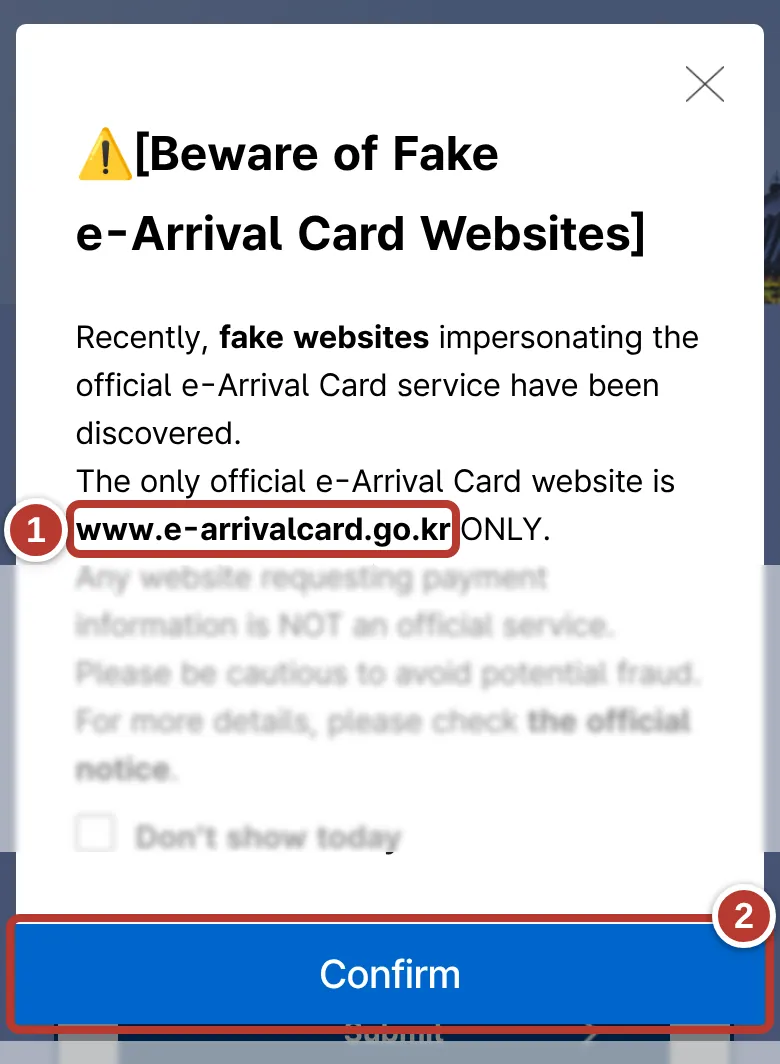
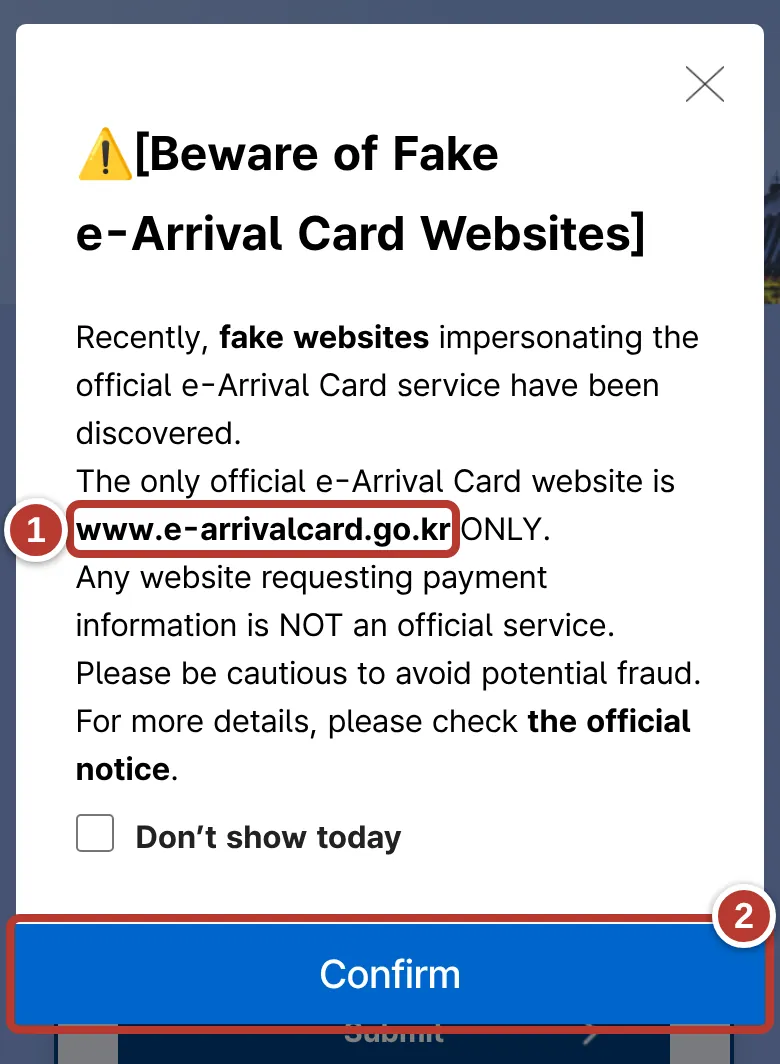
e-arrival-card en/ko: independent-review fixes (first screen, who-needs-it cards incl. Korean citizens, STEP bands, focused marks, FAQ wording, plain words, peak-end order); 'unknown' box labelled as our reading; unpublished
Claude-Session: https://claude.ai/code/session_01SuqWfEwhdH8js6VToC8bPd

diff --git a/tools/capture-eac/capture.js b/tools/capture-eac/capture.js
@@ -126,14 +126,12 @@ const box = (...r)=>{r=r.filter(Boolean); return [Math.min(...r.map(a=>a[1])), M
     const r=[];
     r.push(await mark(p, await V('input[name=ps_fmnm]').elementHandle(),1));
     r.push(await mark(p, await V('input[name=ps_gvnm]').elementHandle(),2));
-    r.push(await mark(p, await V('select.btd_year').evaluateHandle(e=>e.parentElement),3));
-    r.push(await mark(p, await V('.info_nat').elementHandle(),4));
-    r.push(await mark(p, await V('input[name=ps_no]').elementHandle(),5));
-    r.push(await mark(p, sexSel,6));
-    const exp = await p.evaluateHandle(()=>{ const ss=[...document.querySelectorAll('select')].filter(s=>s.getBoundingClientRect().height>0); const i=ss.findIndex(s=>/Male|남/.test(s.innerText)); return ss[i+1].parentElement;});
-    r.push(await mark(p, exp, 7));
+    r.push(await mark(p, await V('#fmnmChk1').evaluateHandle(e=>e.closest('.checkbox-area')||e.parentElement),3,{outR:true}));
+    const usfk = await p.evaluateHandle(()=>window.__small('USFK'));
+    r.push(await mark(p, usfk, 4, {outR:true}));
+    r.push(await mark(p, await V('input[name=ps_no]').elementHandle(),null));
     const ub = await V('button.btnOcrScan').boundingBox(); const sy=await p.evaluate(()=>scrollY);
-    const h5=await p.evaluate(()=>document.querySelector('h5.infoBox').getBoundingClientRect().top+scrollY); await clipShot(p,'shot-6',h5-14,r[6][3]+16);
+    const h5=await p.evaluate(()=>document.querySelector('h5.infoBox').getBoundingClientRect().top+scrollY); await clipShot(p,'shot-6',r[0][1]-50,r[4][3]+20);
   }
   // arrival/departure
   await V('input[name=ent_prr_ymd]').evaluate(e=>{e.removeAttribute('readonly'); e.value='2026-11-28'; e.dispatchEvent(new Event('change',{bubbles:true}));});
@@ -199,10 +197,10 @@ const box = (...r)=>{r=r.filter(Boolean); return [Math.min(...r.map(a=>a[1])), M
     await p.setViewportSize({width:390,height:1200}); await p.waitForTimeout(300); const bb = await btn.boundingBox(); await btn.click({position:{x:(loc==='EN'? bb.width*0.75 : bb.width*0.25), y:bb.height/2}});
     await p.waitForTimeout(1500);
     await V('#keywordAddr').fill('08013'); await V('#btnSearchAddr').click(); await p.waitForTimeout(2500); await L.ready(p).catch(()=>{});
-    const k = await markSel(p,'#keywordAddr',1,{fixed:true},'div');
+    const k = await markSel(p,'#keywordAddr',8,{fixed:true},'div');
     const row = await p.evaluateHandle(()=>{const k=document.querySelector('#keywordAddr'); const kb=k.getBoundingClientRect().bottom; return [...document.querySelectorAll('li,tr,a,div')].filter(x=>{const r=x.getBoundingClientRect(); return r.height>20&&r.height<90&&r.top>kb+20&&/08013/.test(x.innerText)&&x.offsetParent;}).sort((a,b)=>a.getBoundingClientRect().top-b.getBoundingClientRect().top || b.getBoundingClientRect().width-a.getBoundingClientRect().width)[0]||null;});
-    let r2=null; if (await row.evaluate(e=>!!e)) r2 = await mark(p,row,2,{fixed:true}); else console.log('no result row');
-    const t2 = await markSel(p,'#twoTab',3,{fixed:true});
+    let r2=null; if (await row.evaluate(e=>!!e)) r2 = await mark(p,row,9,{fixed:true}); else console.log('no result row');
+    const t2 = await markSel(p,'#twoTab',10,{fixed:true});
     const top = await p.evaluate(()=>{let c=document.querySelector('#twoTab'); while(c.parentElement&&c.getBoundingClientRect().height<350) c=c.parentElement; return c.getBoundingClientRect().top;});
     const bot = r2 ? r2[3]+60 : 900;
     await clipShot(p,'shot-9',top-14,Math.min(bot,1200),true);

diff --git a/tools/capture-eac/tips.js b/tools/capture-eac/tips.js
@@ -1,0 +1,18 @@
+const L=require('./lib.js');
+(async()=>{
+  for (const loc of ['EN','KO']) {
+  const {b,p}=await L.open(loc);
+  await L.toForm(p,loc); await L.fixCss(p); await L.closePop(p);
+  const n = await p.locator('button.btnToolTip').count();
+  const out=[];
+  for (let i=0;i<n;i++){ const bt=p.locator('button.btnToolTip').nth(i); if(!(await bt.isVisible())) continue;
+    const before = await p.evaluate(()=>document.body.innerText);
+    await bt.click().catch(()=>{}); await p.waitForTimeout(500);
+    const after = await p.evaluate(()=>[...document.querySelectorAll('div,p,ul')].filter(e=>{const s=getComputedStyle(e); const r=e.getBoundingClientRect(); return r.height>0 && (s.position==='absolute'||s.position==='fixed') && e.innerText.trim().length>10 && e.innerText.length<1500;}).map(e=>e.innerText.trim()).join('\n---\n'));
+    out.push('## tip '+i+'\n'+after);
+    await p.keyboard.press('Escape'); await bt.click().catch(()=>{}); await p.waitForTimeout(300);
+  }
+  require('fs').writeFileSync('raw/tips-'+loc+'.txt', out.join('\n\n'));
+  await b.close();
+  }
+})();

diff --git a/tools/capture-eac/convert2.py b/tools/capture-eac/convert2.py
@@ -2,7 +2,7 @@ import json, os
 from PIL import Image, ImageDraw, ImageFilter
 R='/home/user/gibyeol-board/static/fig'
 UP,DOWN,PAD=72,16,36
-OPT={0:{'crop':False,'keep_top':True},1:{'keep_top':True},11:{'crop':False,'keep_top':True},12:{'crop':False,'keep_top':True}}
+OPT={1:{'keep_top':True,'noveil':True},5:{'noveil':True},6:{'keep_top':True},8:{'noveil':True},9:{'noveil':True,'crop':False},11:{'crop':False,'keep_top':True},12:{'crop':False,'keep_top':True}}
 def edit(lang,n):
     o=OPT.get(n,{})
     im=Image.open(f'raw/{lang}-shot-{n}.png').convert('RGB')
@@ -22,14 +22,14 @@ def edit(lang,n):
     mask=Image.new('L',im.size,0); d=ImageDraw.Draw(mask)
     if o.get('keep_top') and merged: merged[0][0]=0
     for y0,y1 in merged: d.rectangle((0,y0,im.width,y1),fill=255)
-    out=Image.composite(im,soft,mask)
+    out=im if o.get('noveil') else Image.composite(im,soft,mask)
     if merged and o.get('crop',True):  # crop to what matters
         top=max(0,merged[0][0]-PAD); bot=min(im.height,merged[-1][1]+PAD)
         out=out.crop((0,top,im.width,bot))
     return out
 for lang in ('en','ko'):
     os.makedirs(f'{R}/{lang}',exist_ok=True)
-    shots={n:edit(lang,n) for n in (0,1,2,3,5,6,7,8,9,10,11,12)}
+    shots={n:edit(lang,n) for n in (1,2,5,6,7,8,9,10,11,12)}
     a,b=edit(lang,'4a'),edit(lang,'4b'); gap=44
     m=Image.new('RGB',(a.width,a.height+gap+b.height),'white'); m.paste(a,(0,0)); m.paste(b,(0,a.height+gap))
     d=ImageDraw.Draw(m); y=a.height+gap//2

diff --git a/content/ko/e-arrival-card.md b/content/ko/e-arrival-card.md
@@ -1,30 +1,25 @@
 ---
 title: 전자입국신고서(e-Arrival Card), 화면 따라 작성하기
 description: 한국에 올 때 내는 무료 전자입국신고서. 제출 시기, 유료 가짜 사이트, 숙소 여러 곳·귀국일 미정·아이 동반·환승 작성법.
-lede: 무료, 휴대폰으로 10분쯤, 도착 3일 전부터. 내 두면 입국심사대에서 심사관이 이미 내 정보를 보고 있어요.
+lede: 무료, 휴대폰으로 10분쯤, 도착 3일 전부터. 미리 내 두면 입국심사대에서 심사관이 이미 내 정보를 보고 있어요.
 section: essentials
 updated: 2026-11-26
 ---
 <div class="eac-cta"><a class="eac-btn" href="#누가-내야-하나요"><i class="ic ic-circle-help" aria-hidden="true"></i>내야 하나요?</a><a class="eac-btn go" href="https://www.e-arrivalcard.go.kr" rel="noopener" target="_blank">작성하러 가기 <i class="ic ic-arrow-right" aria-hidden="true"></i></a></div>
 
-{{fig:e-arrival-card-shot-0|진짜 공식 사이트예요. 주소 끝이 **go.kr**이고 "수수료 없이"라고 써 있어요. 화면: e-arrivalcard.go.kr(법무부), 2026년 11월 26일 캡처}}
-
 <ul class="eac-facts"><li><i class="ic ic-wallet" aria-hidden="true"></i>무료</li><li><i class="ic ic-clock" aria-hidden="true"></i>10분쯤</li><li><i class="ic ic-calendar-days" aria-hidden="true"></i>도착 3일 전부터</li><li><i class="ic ic-smartphone" aria-hidden="true"></i>휴대폰·컴퓨터, 앱 없음</li></ul>
+
+{{fig:e-arrival-card-shot-1|진짜 사이트는 먼저 이렇게 경고해요. ① 공식 사이트는 www.e-arrivalcard.go.kr 하나뿐이고, 결제정보를 묻는 곳은 공식이 아니에요. ② 확인을 누르면 닫혀요. 화면: e-arrivalcard.go.kr(법무부), 2026년 11월 26일 캡처}}
+
+<ul class="eac-facts eac-wide"><li><i class="ic ic-circle-check" aria-hidden="true"></i>깜빡했어도 도착 후 입국심사대 전까지 낼 수 있어요.</li><li><i class="ic ic-pencil" aria-hidden="true"></i>화면은 7개 언어, 입력은 영어나 한국어만 돼요.</li></ul>
 
 ## 누가 내야 하나요?
 
-<ul class="eac-who"><li class="yes"><i class="ic ic-user-check" aria-hidden="true"></i><span><b>내야 해요: K-ETA 없이 짧게 방문</b>일본·대만·미국 등 K-ETA 면제국 여권이면 대부분 여기예요. 도착 3일 전부터 공식 사이트에서 내요.</span></li><li class="no"><i class="ic ic-user-x" aria-hidden="true"></i><span><b>안 내요: 유효한 K-ETA가 있음</b><a href="https://www.k-eta.go.kr" rel="noopener" target="_blank">k-eta.go.kr</a>에서 입국 목적과 체류지만 현행화해요.</span></li><li class="no"><i class="ic ic-user-x" aria-hidden="true"></i><span><b>안 내요: 한국에 사는 외국인</b>유효한 외국인등록증(영주증·거소신고증 포함)이 있으면 할 일 없어요.</span></li><li class="fam"><i class="ic ic-users" aria-hidden="true"></i><span><b>가족·일행: 어른 한 명이 대표로</b>휴대폰으로 한 번에 9명까지. 만 14세 미만은 혼자 낼 수 없어요.</span></li></ul>
+<ul class="eac-who"><li class="no"><i class="ic ic-user-x" aria-hidden="true"></i><span><b>안 내요: 대한민국 국민</b>복수국적자도 한국 여권으로 들어오면 안 내요.</span></li><li class="yes"><i class="ic ic-user-check" aria-hidden="true"></i><span><b>내요: K-ETA 없이 오는 외국 여권</b>일본·대만·미국 등 K-ETA 면제국(22개 국가·지역, 2027년 말까지) 여권이면 대부분 여기예요. 입국심사 때 내는 입국신고서를 온라인으로 내는 거예요.</span></li><li class="no"><i class="ic ic-user-x" aria-hidden="true"></i><span><b>안 내요: 유효한 K-ETA가 있음</b>공식 FAQ 기준 제출 대상이 아니에요. <a href="https://www.k-eta.go.kr" rel="noopener" target="_blank">k-eta.go.kr</a>에서 입국 목적과 묵는 곳만 바꿔요.</span></li><li class="no"><i class="ic ic-user-x" aria-hidden="true"></i><span><b>안 내요: 한국에 사는 등록외국인</b>유효한 외국인등록증(영주증·거소신고증 포함)이 있으면 할 일 없어요.</span></li><li class="fam"><i class="ic ic-users" aria-hidden="true"></i><span><b>가족·일행: 한 사람이 대표로</b>휴대폰으로 한 번에 9명까지. 만 14세 미만은 혼자 낼 수 없어요.</span></li></ul>
 
-<details class="more"><summary><i class="ic ic-info" aria-hidden="true"></i>자세히: 안 내도 되는 사람과 이유</summary>
+<details class="more"><summary><i class="ic ic-info" aria-hidden="true"></i>자세히: 전체 판단 흐름, 이 페이지에서 뺀 것</summary>
 
 {{fig:e-arrival-card-1|전자입국신고서가 필요한지, 위에서부터 따라가 보세요}}
-
-| 상황 | 할 일 | 이유 |
-|---|---|---|
-| 일본·대만·미국 등 K-ETA 면제국 여권으로 단기 방문, K-ETA 없음 | 도착 전 3일 안에 [e-arrivalcard.go.kr](https://www.e-arrivalcard.go.kr)에서 제출 | 입국심사 때 내야 하는 입국신고서를 온라인으로 내는 것 |
-| 유효한 K-ETA가 있음 | 신고서는 안 내도 돼요. [k-eta.go.kr](https://www.k-eta.go.kr)에서 입국 목적과 체류지를 현행화 | 공식 FAQ: 유효한 K-ETA 소지자는 제출 대상이 아니에요 |
-| 유효한 외국인등록증(영주증·거소신고증 포함)이 있음 | 할 일 없음 | 등록외국인은 제출 대상이 아니에요 |
-| 가족·일행과 함께 | 한 사람이 대표로 입력, 휴대폰은 한 번에 9명까지 | 만 14세 미만은 혼자 신청할 수 없어요 |
 
 이 페이지가 필요 없는 사람: 대한민국 국민(복수국적자는 한국 여권으로 입국), 등록외국인, 유효한 K-ETA 소지자, 단체사증 소지자, 24시간 안에 환승하며 환승 구역을 벗어나지 않는 사람.
 
@@ -36,134 +31,89 @@ updated: 2026-11-26
 
 미리 옆에 두세요:
 
-<ul class="eac-facts eac-need"><li><i class="ic ic-id-card" aria-hidden="true"></i>여권</li><li><i class="ic ic-plane" aria-hidden="true"></i>항공편명</li><li><i class="ic ic-hotel" aria-hidden="true"></i>숙소 영문 주소</li><li><i class="ic ic-mail" aria-hidden="true"></i>이메일</li></ul>
+<ul class="eac-facts eac-need"><li><i class="ic ic-id-card" aria-hidden="true"></i>여권</li><li><i class="ic ic-plane" aria-hidden="true"></i>항공편명</li><li><i class="ic ic-hotel" aria-hidden="true"></i>숙소 영문 주소(예약 확인 메일)와 전화번호</li><li><i class="ic ic-mail" aria-hidden="true"></i>이메일</li></ul>
 
 사진 속 값(HONG GILDONG, 여권번호 M00000000)은 지어낸 예시예요. 본인 정보를 넣으세요.
 
-<h3 class="eac-step"><span class="n">1</span><i class="ic ic-shield-check" aria-hidden="true"></i>진짜 사이트 열기</h3>
+<h3 class="eac-step"><span class="st">STEP 1</span><i class="ic ic-shield-check" aria-hidden="true"></i>진짜 사이트 열기</h3>
 
-{{fig:e-arrival-card-shot-1|공식 사이트가 처음에 띄우는 경고창. 화면: e-arrivalcard.go.kr(법무부), 2026년 11월 26일 캡처}}
-
-1. 주소가 **e-arrivalcard.go.kr**인지 확인. 검색 말고 직접 입력.
-2. **확인**을 눌러 창을 닫아요.
+**e-arrivalcard.go.kr**을 직접 입력하세요. 검색 광고는 누르지 마세요. 경고창(이 페이지 첫 사진)에서 **확인**을 눌러요.
 
 <aside class="note eac-warn"><i class="ic ic-triangle-alert" aria-hidden="true"></i><span>가짜 사이트는 돈을 받아요. 진짜는 무료예요. 카드 번호를 물으면 바로 닫으세요.</span></aside>
 
-<h3 class="eac-step"><span class="n">2</span><i class="ic ic-arrow-right" aria-hidden="true"></i>신고하기 누르기</h3>
+<h3 class="eac-step"><span class="st">STEP 2</span><i class="ic ic-arrow-right" aria-hidden="true"></i>신고하기 누르기</h3>
 
 {{fig:e-arrival-card-shot-2|첫 화면. 화면: e-arrivalcard.go.kr(법무부), 2026년 11월 26일 캡처}}
 
-1. 정부 공식 사이트라는 표시예요.
-2. 오늘 낼 수 있는 입국일. 도착일이 없으면 기다려요.
+1. 정부 사이트 표시줄. 가짜도 따라 할 수 있으니 주소만 믿으세요.
+2. 오늘 낼 수 있는 입국일. 도착일이 아직 없으면 기다려요.
 3. "전자입국신고 · 개인 신고"(1-9명)의 **신고하기**.
 
-<h3 class="eac-step"><span class="n">3</span><i class="ic ic-mail" aria-hidden="true"></i>동의하고 이메일 넣기</h3>
+<h3 class="eac-step"><span class="st">STEP 3</span><i class="ic ic-mail" aria-hidden="true"></i>동의하고 이메일 넣기</h3>
 
 {{fig:e-arrival-card-shot-4|약관 동의와 이메일(긴 약관 글은 잘라 냄). 화면: e-arrivalcard.go.kr(법무부), 2026년 11월 26일 캡처}}
 
-1. **전체동의** 체크.
-2. 이메일.
-3. 같은 이메일 한 번 더.
-4. **확인**.
+체크하고, 이메일을 두 번 넣고, **확인**. 대표로 작성하는 사람은 만 14세 이상이어야 해요.
 
-<h3 class="eac-step"><span class="n">4</span><i class="ic ic-id-card" aria-hidden="true"></i>여권 스캔</h3>
+<h3 class="eac-step"><span class="st">STEP 4</span><i class="ic ic-id-card" aria-hidden="true"></i>여권 스캔</h3>
 
-{{fig:e-arrival-card-shot-5|여권 인적사항면 스캔. 화면: e-arrivalcard.go.kr(법무부), 2026년 11월 26일 캡처}}
+{{fig:e-arrival-card-shot-5|여권 스캔. 사이트의 안내 그림 그대로. 화면: e-arrivalcard.go.kr(법무부), 2026년 11월 26일 캡처}}
 
-1. 여권 사진면을 촬영.
+1. 여권 사진 있는 면을 촬영.
 2. 또는 찍어 둔 사진을 올려요.
 3. 인식이 안 되면 닫고 직접 입력.
 
-<h3 class="eac-step"><span class="n">5</span><i class="ic ic-pencil" aria-hidden="true"></i>여권 정보 확인</h3>
+<h3 class="eac-step"><span class="st">STEP 5</span><i class="ic ic-pencil" aria-hidden="true"></i>여권 정보 확인</h3>
 
-{{fig:e-arrival-card-shot-6|기본정보, 예시 값으로 채운 화면. 화면: e-arrivalcard.go.kr(법무부), 2026년 11월 26일 캡처}}
+{{fig:e-arrival-card-shot-6|헷갈리기 쉬운 칸, 예시 값. 화면: e-arrivalcard.go.kr(법무부), 2026년 11월 26일 캡처}}
 
-1. 성, 여권과 똑같이.
-2. 이름, 여권과 똑같이.
-3. 생년월일.
-4. 국가.
-5. 여권번호.
-6. 성별.
-7. 여권 만료일.
+1. 성 = 여권의 성(Surname).
+2. 이름 = 여권의 이름(Given name), 중간 이름까지.
+3. 'unknown' 칸: 여권에 성이나 이름이 정말 없을 때만 건드리세요(화면을 보고 우리가 판단한 것으로, 공식 FAQ에는 설명이 없어요).
+4. "For USFK – DoD ID number"는 주한미군용이에요. 다른 사람은 여권번호를 넣어요.
 
-<aside class="note eac-warn"><i class="ic ic-triangle-alert" aria-hidden="true"></i><span>여권과 한 글자씩 맞춰 보세요. 다르면 입국심사가 늦어질 수 있다고 사이트가 안내해요.</span></aside>
+여권 생년월일이 XX로 돼 있으면 00을 고르라고 사이트 도움말이 안내해요. 여권 만료일은 입국 예정일 이후여야 해요.
 
-<h3 class="eac-step"><span class="n">6</span><i class="ic ic-plane" aria-hidden="true"></i>항공편</h3>
+<aside class="note eac-warn"><i class="ic ic-triangle-alert" aria-hidden="true"></i><span>여권과 한 글자씩 맞춰 보세요. 공식 FAQ는 틀린 정보가 입국심사 지연이나 입국 불허로 이어질 수 있다고 안내해요.</span></aside>
+
+<h3 class="eac-step"><span class="st">STEP 6</span><i class="ic ic-plane" aria-hidden="true"></i>항공편</h3>
 
 {{fig:e-arrival-card-shot-7|입국·출국 정보. 화면: e-arrivalcard.go.kr(법무부), 2026년 11월 26일 캡처}}
 
-1. 비행기로 오면 **AIR**.
-2. 입국 예정일.
-3. 항공사.
-4. 항공편명.
-5. 출국 예정일. 필수예요.
-6. 출국 항공편명. 비워 둬도 돼요.
+출국 예정일은 필수. 출국 항공편명(6)은 비워 둬도 돼요. 귀국일이 미정이면 아래 '더 자세히'를 보세요.
 
-<h3 class="eac-step"><span class="n">7</span><i class="ic ic-hotel" aria-hidden="true"></i>입국 목적과 숙소</h3>
+<h3 class="eac-step"><span class="st">STEP 7</span><i class="ic ic-hotel" aria-hidden="true"></i>입국 목적과 묵는 곳</h3>
 
-{{fig:e-arrival-card-shot-8|입국목적, 체류지, 직업. 화면: e-arrivalcard.go.kr(법무부), 2026년 11월 26일 캡처}}
+{{fig:e-arrival-card-shot-8|입국목적, 묵는 곳, 직업. 화면: e-arrivalcard.go.kr(법무부), 2026년 11월 26일 캡처}}
 
 1. 입국목적, 예: **관광(개별)**.
 2. 비자번호 칸: 비자가 있을 때만. 없으면 건너뛰어요.
 3. **숙박시설**, 거주, 당일환승 중 하나.
-4. **KOR/ENG**를 눌러 숙소 주소를 찾아요.
+4. **KOR** 또는 **ENG**를 눌러 주소를 찾아요(사진 8~10).
 5. 숙소 이름, 호수 등.
-6. 한국 내 연락처. 화면에서 입력을 요구해요.
+6. 연락처: 묵는 곳의 전화번호. 사이트 도움말이 "체류하게 될 곳의 주소와 연락처"를 적으라고 해요.
 7. 직업.
 
 {{fig:e-arrival-card-shot-9|주소 조회. 사이트에 나온 예시(우편번호 08013)로 찾아 본 화면. 화면: e-arrivalcard.go.kr(법무부), 2026년 11월 26일 캡처}}
 
-1. 도로명이나 우편번호 5자리를 넣어요.
-2. 목록에서 주소를 눌러요.
-3. 안 나오면 **직접입력**.
+<ol class="steps" style="counter-reset:st 7"><li>도로명이나 우편번호 5자리를 넣어요.</li><li>목록에서 주소를 눌러요.</li><li>안 나오면 <b>직접입력</b>.</li></ol>
 
-<h3 class="eac-step"><span class="n">8</span><i class="ic ic-circle-check" aria-hidden="true"></i>제출하고 PDF 저장</h3>
+<h3 class="eac-step"><span class="st">STEP 8</span><i class="ic ic-circle-check" aria-hidden="true"></i>제출하고 PDF 저장</h3>
 
 {{fig:e-arrival-card-shot-10|양식의 마지막 부분. 여기서 멈췄고 제출하지 않았어요. 화면: e-arrivalcard.go.kr(법무부), 2026년 11월 26일 캡처}}
 
 1. 이메일 확인.
-2. **제출**. 이어서 인증번호를 넣는 단계가 나와요.
+2. **제출**. 누르기 전에 여권과 다른 곳이 없는지 확인해요.
 
-<aside class="note eac-done"><i class="ic ic-file-down" aria-hidden="true"></i><span>끝! 발급번호가 담긴 PDF를 휴대폰에 저장하세요. 심사대에서 보여 줄 의무는 없어요.</span></aside>
+공식 사이트는 2026년 5월 6일부터 제출할 때 인증번호를 입력하는 절차를 도입한다고 공지했어요. 우리는 제출하지 않아서 그 화면은 사진이 없어요.
 
-<aside class="note eac-warn"><i class="ic ic-triangle-alert" aria-hidden="true"></i><span>Gmail·Outlook.com·Hotmail·QQ 메일은 늦거나 안 올 수 있어요. 메일을 기다리지 말고 PDF를 저장하세요.</span></aside>
+<aside class="note eac-done"><i class="ic ic-file-down" aria-hidden="true"></i><span>끝! 발급번호가 담긴 PDF를 휴대폰에 저장하세요. 보여 줄 의무는 없지만(심사관이 시스템에서 확인해요) 요청받을 때를 대비해 갖고 있으면 편해요.</span></aside>
 
-<details class="more"><summary><i class="ic ic-info" aria-hidden="true"></i>자세히: 항목별 작성법, 인증번호, PDF</summary>
-
-앱은 없고 휴대폰이나 컴퓨터 웹브라우저로 작성해요. 화면은 7개 언어로 볼 수 있지만 **입력은 영어나 한국어만** 돼요. 숙소 주소는 예약 확인 메일에서 영문 주소를 미리 찾아 두세요.
-
-1. **약관 동의와 이메일**: 약관에 동의하고 이메일을 두 번 입력해요. 이 사람이 대표 신청자이고, 만 14세 이상이어야 해요.
-2. **여권 정보**: 여권 사진면을 카메라로 스캔하거나 파일을 올려요. 인식이 안 되면 직접 입력해요.
-3. **입국 정보**: 도착일과 항공편명.
-4. **출국 정보**: 날짜는 필수, 항공편명은 선택.
-5. **입국 목적과 직업**: 관광 등 맞는 항목을 골라요.
-6. **국내 체류지**: 아래 설명을 참고하세요. 2026년 11월 26일 화면에서는 숙박시설을 고르면 한국 내 연락처 칸도 나왔어요.
-7. **확인 후 제출**: 여권과 다른 곳이 없는지 확인해요. 공식 사이트는 2026년 5월 6일부터 제출할 때 인증번호를 입력하는 절차를 도입한다고 공지했어요.
-8. **PDF 저장**: 발급번호가 담긴 PDF를 저장하세요. 이메일로도 오지만, 공식 사이트는 Gmail·Outlook.com·Hotmail·QQ 메일은 늦게 오거나 안 올 수 있다고 안내해요. 보여 줄 의무는 없지만(심사관이 시스템에서 확인해요) 요청받을 때를 대비해 갖고 있으면 편해요.
-
-**제출** 다음 화면(인증번호, PDF)은 사진이 없어요. 거기까지 가려면 실제로 신고서를 내야 해서예요.
-
-다른 길: 오른쪽 위 메뉴 → 신고 → 전자입국신고.
-
-{{fig:e-arrival-card-shot-3|메뉴로 가는 길. 화면: e-arrivalcard.go.kr(법무부), 2026년 11월 26일 캡처}}
-
-</details>
+<aside class="note eac-warn"><i class="ic ic-triangle-alert" aria-hidden="true"></i><span>PDF는 이메일로도 오지만, 공식 사이트는 Gmail·Outlook.com·Hotmail·QQ 메일은 늦게 오거나 안 올 수 있다고 안내해요. 메일을 기다리지 말고 PDF를 저장하세요.</span></aside>
 
 ## 자주 하는 실수
 
-<ul class="eac-oops"><li><i class="ic ic-triangle-alert" aria-hidden="true"></i><span>비슷한 가짜 사이트에 돈 내기. 진짜는 <b>go.kr</b>로 끝나고 무료예요.</span></li><li><i class="ic ic-triangle-alert" aria-hidden="true"></i><span>너무 일찍 내기. 한국 시간으로 도착 3일 전부터 열려요.</span></li><li><i class="ic ic-triangle-alert" aria-hidden="true"></i><span>낸 뒤 비행기가 하루 밀렸다면? 다시 내요.</span></li><li><i class="ic ic-triangle-alert" aria-hidden="true"></i><span>지난 여행 신고서 재사용. 한 장은 입국 1회용이에요.</span></li><li><i class="ic ic-triangle-alert" aria-hidden="true"></i><span>여권과 한 글자라도 다른 이름.</span></li></ul>
-
-## 다음 할 일
-
-<ul class="eac-next"><li><a href="/ko/airport-to-seoul/"><i class="ic ic-plane" aria-hidden="true"></i><span>도착했다면: 인천공항에서 서울까지, 숙소 위치로 고르기</span><i class="ic ic-arrow-right" aria-hidden="true"></i></a></li><li><a href="/ko/essentials/"><i class="ic ic-list-checks" aria-hidden="true"></i><span>출발 전에 챙길 다른 것들</span><i class="ic ic-arrow-right" aria-hidden="true"></i></a></li></ul>
-
-## 제대로 끝낸 입국은 이런 모습이에요
-
-**출발 전날 밤.** 여권, 항공편명, 숙소 영문 주소를 옆에 두고 공식 사이트에서 10분쯤. 발급번호가 담긴 PDF를 휴대폰에 저장해요. 짐을 싸기 전에 입국신고서는 끝나요.
-
-**입국심사대 앞.** 펜도, 무릎 위에서 쓰는 종이 카드도 없어요. 여권을 내밀면 심사관 화면에 정보가 이미 떠 있어요. 심사를 마치면 신고서는 할 일을 다 하고 효력이 끝나요.
-
-공식 규정으로 그린 장면이에요. 지어낸 경험담이 아니에요.
+<ul class="eac-oops"><li><i class="ic ic-triangle-alert" aria-hidden="true"></i><span>비슷한 가짜 사이트에 돈 내기. 진짜는 <b>go.kr</b>로 끝나고 무료예요.</span></li><li><i class="ic ic-triangle-alert" aria-hidden="true"></i><span>너무 일찍 내기. 한국 시간으로 도착 3일 전부터 열려요.</span></li><li><i class="ic ic-triangle-alert" aria-hidden="true"></i><span>효력이 끝난 걸 모르기: 제출 후 72시간, 입국 1회만 유효해요. 낸 뒤 비행기가 하루 밀렸다면 다시 내요.</span></li><li><i class="ic ic-triangle-alert" aria-hidden="true"></i><span>지난 여행 신고서 재사용. 올 때마다 새로 내요.</span></li><li><i class="ic ic-triangle-alert" aria-hidden="true"></i><span>여권과 한 글자라도 다른 이름.</span></li></ul>
 
 ## 더 자세히
 
@@ -179,7 +129,7 @@ updated: 2026-11-26
 
 <details class="more"><summary><i class="ic ic-calendar-days" aria-hidden="true"></i>3일 기간, 72시간, 깜빡했을 때</summary>
 
-한국 시간 기준 도착일 3일 전부터 낼 수 있어요. 31일 도착이면 29·30·31일이에요. 첫 화면에 오늘 낼 수 있는 입국일이 나와요(2단계 사진).
+한국 시간 기준 도착일 3일 전부터 낼 수 있어요. 31일 도착이면 29·30·31일이에요. 첫 화면에 오늘 낼 수 있는 입국일이 나와요(STEP 2 사진).
 
 제출한 신고서는 제출 후 72시간이 지나거나 입국심사를 마치면 효력이 없어져요. 일찍 냈는데 비행기가 하루 늦어졌다면 다시 내야 해요. 한 번 낸 신고서는 입국 1회에만 쓸 수 있어서, 올 때마다 새로 내야 해요.
 
@@ -189,7 +139,7 @@ updated: 2026-11-26
 
 <details class="more"><summary><i class="ic ic-hotel" aria-hidden="true"></i>숙소가 여러 곳이거나, 내용을 고칠 때</summary>
 
-주로 머무는 곳을 써요. 주된 숙소가 없으면 도착 후 처음 묵는 곳을 쓰면 돼요. 체류지·입국 목적·직업 등은 입국심사 전까지 발급번호나 이메일 인증으로 고칠 수 있어요.
+주로 머무는 곳을 써요. 주된 숙소가 없으면 도착 후 처음 묵는 곳을 쓰면 돼요. 묵는 곳·입국 목적·직업 등은 입국심사 전까지 발급번호나 이메일 인증으로 고칠 수 있어요. 공식 FAQ에 따르면 입국일은 처음 제출한 날부터 3일 안에만 고칠 수 있어요.
 
 {{fig:e-arrival-card-shot-12|첫 화면의 조회·수정: 발급번호 또는 이메일 인증. 화면: e-arrivalcard.go.kr(법무부), 2026년 11월 26일 캡처}}
 
@@ -203,7 +153,7 @@ updated: 2026-11-26
 
 <details class="more"><summary><i class="ic ic-users" aria-hidden="true"></i>아이와 함께, 또는 단체로</summary>
 
-입국하는 사람은 아이까지 모두 신고 대상이에요. 휴대폰으로는 한 번에 9명, 컴퓨터로는 도착일과 항공편이 같은 사람을 1,000명까지 한꺼번에 낼 수 있어요. 아이의 여권 정보는 부모나 보호자가 입력해요. 같이 오는 사람에게는 PDF나 이메일을 보여 주면 제출이 끝났다는 걸 알릴 수 있어요.
+입국하는 사람은 아이까지 모두 신고 대상이에요. 휴대폰으로는 한 번에 9명, 컴퓨터로는 도착일과 항공편이 같은 사람을 1,000명까지 한꺼번에 낼 수 있어요. 사이트 도움말에 따르면 한 신고서에 넣는 사람은 입국일과 입국편명이 모두 같아야 해요. 아이의 여권 정보는 부모나 보호자가 입력해요. 같이 오는 사람에게는 PDF나 이메일을 보여 주면 제출이 끝났다는 걸 알릴 수 있어요.
 
 {{fig:e-arrival-card-shot-11|신고인 추가로 다음 사람을 더해요. 화면: e-arrivalcard.go.kr(법무부), 2026년 11월 26일 캡처}}
 
@@ -211,7 +161,7 @@ updated: 2026-11-26
 
 <details class="more"><summary><i class="ic ic-plane" aria-hidden="true"></i>환승</summary>
 
-24시간 안에 환승하고 환승 구역을 벗어나지 않으면 내지 않아요. 부친 짐을 찾거나 다른 항공권으로 다시 체크인하려고 입국심사를 통과한다면 내야 해요. 같은 날 들어왔다 나간다면 도착일과 출국일을 같은 날로 쓰고, 체류지는 건너뛸 수 있어요(양식의 '당일환승', 7단계).
+24시간 안에 환승하고 환승 구역을 벗어나지 않으면 내지 않아요. 부친 짐을 찾거나 다른 항공권으로 다시 체크인하려고 입국심사를 통과한다면 내야 해요. 같은 날 들어왔다 나간다면 도착일과 출국일을 같은 날로 쓰고, 묵는 곳은 건너뛸 수 있어요(양식의 '당일환승', STEP 7).
 
 </details>
 
@@ -227,7 +177,7 @@ updated: 2026-11-26
 
 {{fig:e-arrival-card-5|K-ETA와 전자입국신고서 비교}}
 
-- 미국·일본·대만 등 22개 국가·지역의 단기 방문객 대부분은 K-ETA가 한시 면제돼요. 법무부가 [2026년 11월 23일 K-ETA 공지](https://www.k-eta.go.kr/portal/board/viewboarddetail.do?bbsSn=332883)로 면제를 1년 연장해, 면제 기간은 **2027년 12월 31일까지**예요. 면제 기간에는 전자입국신고서를 내요. K-ETA 신청 중 면제 대상 여권의 인적사항면을 스캔하면 'K-ETA 면제 대상' 안내창이 떠요.
+- 미국·일본·대만 등 22개 국가·지역의 단기 방문객 대부분은 K-ETA가 한시 면제돼요. 법무부가 [2026년 11월 23일 K-ETA 공지](https://www.k-eta.go.kr/portal/board/viewboarddetail.do?bbsSn=332883)로 면제를 1년 연장해, 면제 기간은 **2027년 12월 31일까지**예요. 면제 기간에는 전자입국신고서를 내요. K-ETA 신청 중 면제 대상 여권의 사진 있는 면을 스캔하면 'K-ETA 면제 대상' 안내창이 떠요.
 - 면제 대상도 원하면 K-ETA를 신청할 수 있지만, 얻는 건 입국신고서 면제뿐이고 수수료가 들어요. 짧은 여행이라면 무료 신고서로 충분해요. 이미 받은 K-ETA는 유효기간까지 쓸 수 있고, 낸 수수료는 환불되지 않아요.
 
 전자입국신고서를 냈다고 자동출입국심사를 쓸 수 있게 되는 건 아니고, 세관 신고를 대신하지도 않아요.
@@ -236,8 +186,20 @@ updated: 2026-11-26
 
 <details class="more"><summary><i class="ic ic-list-checks" aria-hidden="true"></i>출처</summary>
 
-<p class="sources">전자입국신고서 공식 사이트(2026년 11월 26일 확인): <a href="https://www.e-arrivalcard.go.kr/portal/board/boardList.do?eacBbsKndCd=2" rel="noopener" target="_blank">자주 묻는 질문</a>(34개 전체: 제출 시기, 9명·1,000명, 환승, 정보 수정, 종이 신고서, K-ETA 소지자, 아동), <a href="https://www.e-arrivalcard.go.kr/portal/guide/eacReportProcessGuide.do" rel="noopener" target="_blank">신고 절차</a>, 공지 <a href="https://www.e-arrivalcard.go.kr/portal/board/viewBoardDetail.do?bbsId=0000000001&amp;eacBbsKndCd=1&amp;pageIndex=1&amp;flId=" rel="noopener" target="_blank">제도 안내(제출 대상)</a>, <a href="https://www.e-arrivalcard.go.kr/portal/board/viewBoardDetail.do?bbsId=0000000002&amp;eacBbsKndCd=1&amp;pageIndex=1&amp;flId=" rel="noopener" target="_blank">전자입국신고는 무료입니다</a>, <a href="https://www.e-arrivalcard.go.kr/portal/board/viewBoardDetail.do?bbsId=0000012530&amp;eacBbsKndCd=1&amp;pageIndex=1&amp;flId=" rel="noopener" target="_blank">이메일 수신 지연</a>(2026년 3월 13일), <a href="https://www.e-arrivalcard.go.kr/portal/board/viewBoardDetail.do?bbsId=0000012630&amp;eacBbsKndCd=1&amp;pageIndex=1&amp;flId=" rel="noopener" target="_blank">사용자 인증 절차(2026년 5월 6일부터)</a>(2026년 4월 29일); <a href="https://www.k-eta.go.kr/portal/board/viewboarddetail.do?bbsSn=332883" rel="noopener" target="_blank">K-ETA 한시 면제 기간 2027년 12월 31일까지 연장</a>(2026년 11월 23일, 2026년 11월 26일 확인. <a href="https://www.k-eta.go.kr/portal/board/viewboarddetail.do?bbsSn=299706" rel="noopener" target="_blank">2025년 12월 23일 공지</a>를 대체); <a href="https://www.airport.kr/ap_ko/921/subview.do" rel="noopener" target="_blank">인천국제공항 입국 절차 안내</a>(2026년 11월 26일 확인); 법무부 출입국·외국인정책본부 <a href="https://mojhome.moj.go.kr/bbs/immigration_eng/229/593239/artclView.do" rel="noopener" target="_blank">가짜 전자입국신고서 사이트 주의</a>(2025년 3월 21일, 이전 판에서 확인); 한국관광공사 VISITKOREA 도입 안내(2025년 2월 20일, 이전 판에서 확인); 전자입국신고서 <a href="https://www.e-arrivalcard.go.kr/portal/guide/eacGuide.do" rel="noopener" target="_blank">안내</a>·<a href="https://www.e-arrivalcard.go.kr/portal/guide/navigator.do" rel="noopener" target="_blank">내비게이터</a>(2026년 11월 25일 확인, 이번에 다시 열지 않음); 정부민원안내콜센터 110 법무부 답변(2026년 1월 15일, 이전 판에서 확인). 화면 사진: 2026년 11월 26일 휴대폰 크기 화면으로 연 공식 양식. 지어낸 예시 값만 넣었고 제출하지 않았어요. 필요한 부분만 잘라 쓰고 나머지는 흐리게 처리했어요.</p>
+<p class="sources">전자입국신고서 공식 사이트(2026년 11월 26일 확인): <a href="https://www.e-arrivalcard.go.kr/portal/board/boardList.do?eacBbsKndCd=2" rel="noopener" target="_blank">자주 묻는 질문</a>(34개 전체: 제출 시기, 9명·1,000명, 환승, 정보 수정, 종이 신고서, K-ETA 소지자, 아동), <a href="https://www.e-arrivalcard.go.kr/portal/guide/eacReportProcessGuide.do" rel="noopener" target="_blank">신고 절차</a>, 공지 <a href="https://www.e-arrivalcard.go.kr/portal/board/viewBoardDetail.do?bbsId=0000000001&amp;eacBbsKndCd=1&amp;pageIndex=1&amp;flId=" rel="noopener" target="_blank">제도 안내(제출 대상)</a>, <a href="https://www.e-arrivalcard.go.kr/portal/board/viewBoardDetail.do?bbsId=0000000002&amp;eacBbsKndCd=1&amp;pageIndex=1&amp;flId=" rel="noopener" target="_blank">전자입국신고는 무료입니다</a>, <a href="https://www.e-arrivalcard.go.kr/portal/board/viewBoardDetail.do?bbsId=0000012530&amp;eacBbsKndCd=1&amp;pageIndex=1&amp;flId=" rel="noopener" target="_blank">이메일 수신 지연</a>(2026년 3월 13일), <a href="https://www.e-arrivalcard.go.kr/portal/board/viewBoardDetail.do?bbsId=0000012630&amp;eacBbsKndCd=1&amp;pageIndex=1&amp;flId=" rel="noopener" target="_blank">사용자 인증 절차(2026년 5월 6일부터)</a>(2026년 4월 29일); <a href="https://www.k-eta.go.kr/portal/board/viewboarddetail.do?bbsSn=332883" rel="noopener" target="_blank">K-ETA 한시 면제 기간 2027년 12월 31일까지 연장</a>(2026년 11월 23일, 2026년 11월 26일 확인. <a href="https://www.k-eta.go.kr/portal/board/viewboarddetail.do?bbsSn=299706" rel="noopener" target="_blank">2025년 12월 23일 공지</a>를 대체); <a href="https://www.airport.kr/ap_ko/921/subview.do" rel="noopener" target="_blank">인천국제공항 입국 절차 안내</a>(2026년 11월 26일 확인); 법무부 출입국·외국인정책본부 <a href="https://mojhome.moj.go.kr/bbs/immigration_eng/229/593239/artclView.do" rel="noopener" target="_blank">가짜 전자입국신고서 사이트 주의</a>(2025년 3월 21일, 이전 판에서 확인); 한국관광공사 VISITKOREA 도입 안내(2025년 2월 20일, 이전 판에서 확인); 전자입국신고서 <a href="https://www.e-arrivalcard.go.kr/portal/guide/eacGuide.do" rel="noopener" target="_blank">안내</a>·<a href="https://www.e-arrivalcard.go.kr/portal/guide/navigator.do" rel="noopener" target="_blank">내비게이터</a>(2026년 11월 25일 확인, 이번에 다시 열지 않음); 정부민원안내콜센터 110 법무부 답변(2026년 1월 15일, 이전 판에서 확인). 화면 사진: 2026년 11월 26일 휴대폰 크기 화면으로 연 공식 양식과 도움말(?) 문구. 지어낸 예시 값만 넣었고 제출하지 않았어요. 필요한 부분만 잘라 쓰고 나머지는 흐리게 처리했어요.</p>
 
 </details>
 
-출발 전에 챙길 다른 것들은 [한국 여행 필수 준비](/ko/essentials/)에 정리해 뒀어요.
+## 제대로 끝낸 입국은 이런 모습이에요
+
+**출발 전날 밤.** 여권, 항공편명, 숙소 영문 주소를 옆에 두고 공식 사이트에서 10분쯤. 발급번호가 담긴 PDF를 휴대폰에 저장해요. 짐을 싸기 전에 입국신고서는 끝나요.
+
+**입국심사대 앞.** 펜도, 무릎 위에서 쓰는 종이 카드도 없어요. 여권을 내밀면 심사관 화면에 정보가 이미 떠 있어요. 심사를 마치면 신고서는 할 일을 다 하고 효력이 끝나요.
+
+공식 규정으로 그린 장면이에요. 지어낸 경험담이 아니에요.
+
+## 다음 할 일
+
+<a class="eac-nextcard" href="/ko/airport-to-seoul/"><img src="/static/photo/airport-1.webp" alt="인천공항 제2터미널 도착 홀" loading="lazy" decoding="async"><span><b><i class="ic ic-plane" aria-hidden="true"></i>도착했다면: 인천공항에서 서울까지</b>입국심사 다음 고민은 하나예요. 숙소에 제일 가깝게 내려 주는 교통편 고르기.</span><small>Photo: AirportTerminalGuy, CC BY 4.0, via Wikimedia Commons (modified: light auto-contrast)</small></a>
+
+<ul class="eac-next"><li><a href="/ko/essentials/"><i class="ic ic-list-checks" aria-hidden="true"></i><span>한국 여행 필수 준비: 출발 전에 챙길 다른 것들</span><i class="ic ic-arrow-right" aria-hidden="true"></i></a></li></ul>

diff --git a/content/en/e-arrival-card.md b/content/en/e-arrival-card.md
@@ -69,7 +69,7 @@ Tick, type your email twice, tap **Confirm**. The person filling in for the grou
 
 1. Surname = your family name.
 2. Given name = your first (and middle) names.
-3. "unknown": tick only if your passport has no surname (or no given name).
+3. "unknown": a box next to the name — leave it alone unless your passport really has no surname or given name (our reading of the form; the official FAQ doesn't explain it).
 4. "For USFK – DoD ID number" is only for US Forces Korea. Everyone else types the passport number.
 
 Birthday shown as XX on your passport? Pick 00, the site's help says. Your passport must still be valid on your arrival date.
@@ -109,7 +109,7 @@ The site announced a verification-code step at submission from 6 May 2026. Our p
 
 <aside class="note eac-done"><i class="ic ic-file-down" aria-hidden="true"></i><span>Done! Save the PDF with your issue number on your phone. You don't have to show it (the officer sees your details on screen), but keep it in case you are asked.</span></aside>
 
-<aside class="note eac-warn"><i class="ic ic-triangle-alert" aria-hidden="true"></i><span>The site warns that Gmail, Outlook.com, Hotmail and QQ emails can arrive late or not at all. Save the PDF, don't wait for the email.</span></aside>
+<aside class="note eac-warn"><i class="ic ic-triangle-alert" aria-hidden="true"></i><span>The PDF is also emailed, but the site warns that Gmail, Outlook.com, Hotmail and QQ emails can arrive late or not at all. Save the PDF, don't wait for the email.</span></aside>
 
 ## Common mistakes
 
